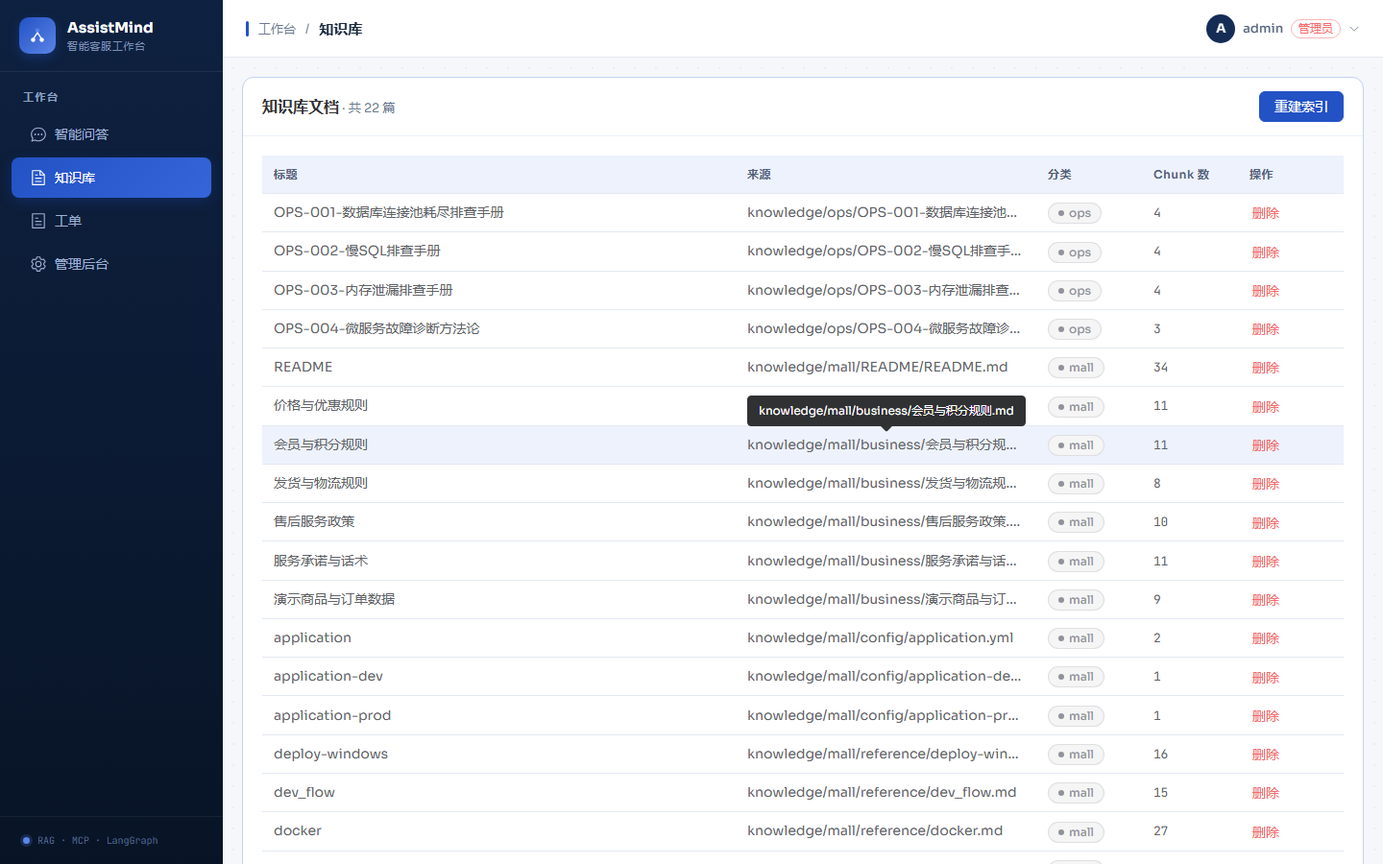
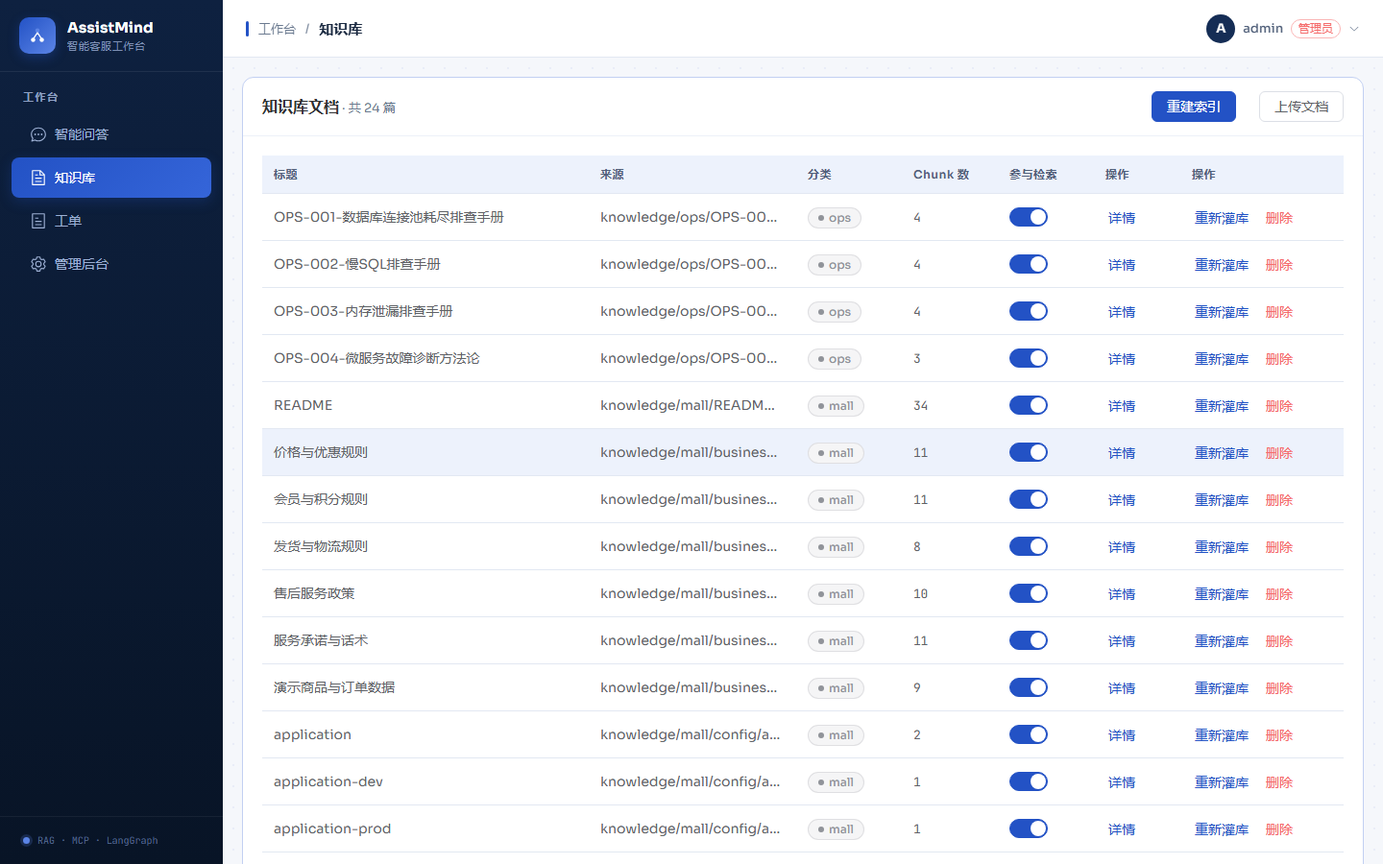
docs: 架构图与 README 截图说明同步当前架构
- archify 架构图重新导出：移除运维诊断节点，MCP 工具数更新为 8 个，规格锁定 revision 同步当前提交
- 交互版 HTML/spec.json 同步：删除运维节点与连线，源码溯源链接指向当前 revision
- README 截图说明更新：知识库管理（上传/启停/重灌）与召回测试两张新截图入库
- 删除未被引用且含已移除模块的旧版架构示意图 architecture-diagram.png

diff --git a/docs/assistmind-architecture.html b/docs/assistmind-architecture.html
@@ -4960,7 +4960,7 @@
     </div>
 
     <script id="archify-guided-views-data" type="application/json">[{"id":"request-path","label":"一次提问的完整链路","focus":["frontend","chat","router","rag","tool_agent"],"note":"从 SSE 入口经三级意图路由，分流到检索生成或 Agent 工具调用。"},{"id":"data-and-tools","label":"数据与工具链","focus":["rag","qdrant","tool_agent","mcp","pg"],"note":"知识检索落在 Qdrant，业务操作经 MCP 工具写入 PostgreSQL。"}]</script>
-    <script id="archify-source-evidence-data" type="application/json">{"schemaVersion":1,"verified":true,"repository":{"url":"https://github.com/JDKmark/AssistMind","revision":"c4d89c3d9ebf1ce1e05ab051781f11d426bd34c5","shortRevision":"c4d89c3"},"referenceCount":9,"nodes":{"frontend":[{"path":"frontend/src/App.vue","line":1,"href":"https://github.com/JDKmark/AssistMind/blob/c4d89c3d9ebf1ce1e05ab051781f11d426bd34c5/frontend/src/App.vue#L1"}],"chat":[{"path":"backend/app/api/chat.py","line":75,"href":"https://github.com/JDKmark/AssistMind/blob/c4d89c3d9ebf1ce1e05ab051781f11d426bd34c5/backend/app/api/chat.py#L75"}],"router":[{"path":"backend/app/core/router/intent.py","line":1,"href":"https://github.com/JDKmark/AssistMind/blob/c4d89c3d9ebf1ce1e05ab051781f11d426bd34c5/backend/app/core/router/intent.py#L1"}],"rag":[{"path":"backend/app/core/rag/engine.py","line":222,"href":"https://github.com/JDKmark/AssistMind/blob/c4d89c3d9ebf1ce1e05ab051781f11d426bd34c5/backend/app/core/rag/engine.py#L222"}],"tool_agent":[{"path":"backend/app/agents/tool_agent.py","line":115,"href":"https://github.com/JDKmark/AssistMind/blob/c4d89c3d9ebf1ce1e05ab051781f11d426bd34c5/backend/app/agents/tool_agent.py#L115"}],"mcp":[{"path":"backend/app/core/mcp/server.py","line":1,"href":"https://github.com/JDKmark/AssistMind/blob/c4d89c3d9ebf1ce1e05ab051781f11d426bd34c5/backend/app/core/mcp/server.py#L1"}],"dialog":[{"path":"backend/app/core/dialog/manager.py","line":1,"href":"https://github.com/JDKmark/AssistMind/blob/c4d89c3d9ebf1ce1e05ab051781f11d426bd34c5/backend/app/core/dialog/manager.py#L1"},{"path":"backend/app/core/dialog/state.py","line":1,"href":"https://github.com/JDKmark/AssistMind/blob/c4d89c3d9ebf1ce1e05ab051781f11d426bd34c5/backend/app/core/dialog/state.py#L1"}]}}</script>
+    <script id="archify-source-evidence-data" type="application/json">{"schemaVersion":1,"verified":true,"repository":{"url":"https://github.com/JDKmark/AssistMind","revision":"f4b07c25694800a990aefed20f83eeb240d70d92","shortRevision":"f4b07c2"},"referenceCount":9,"nodes":{"frontend":[{"path":"frontend/src/App.vue","line":1,"href":"https://github.com/JDKmark/AssistMind/blob/f4b07c25694800a990aefed20f83eeb240d70d92/frontend/src/App.vue#L1"}],"chat":[{"path":"backend/app/api/chat.py","line":75,"href":"https://github.com/JDKmark/AssistMind/blob/f4b07c25694800a990aefed20f83eeb240d70d92/backend/app/api/chat.py#L75"}],"router":[{"path":"backend/app/core/router/intent.py","line":1,"href":"https://github.com/JDKmark/AssistMind/blob/f4b07c25694800a990aefed20f83eeb240d70d92/backend/app/core/router/intent.py#L1"}],"rag":[{"path":"backend/app/core/rag/engine.py","line":222,"href":"https://github.com/JDKmark/AssistMind/blob/f4b07c25694800a990aefed20f83eeb240d70d92/backend/app/core/rag/engine.py#L222"}],"tool_agent":[{"path":"backend/app/agents/tool_agent.py","line":115,"href":"https://github.com/JDKmark/AssistMind/blob/f4b07c25694800a990aefed20f83eeb240d70d92/backend/app/agents/tool_agent.py#L115"}],"mcp":[{"path":"backend/app/core/mcp/server.py","line":1,"href":"https://github.com/JDKmark/AssistMind/blob/f4b07c25694800a990aefed20f83eeb240d70d92/backend/app/core/mcp/server.py#L1"}],"dialog":[{"path":"backend/app/core/dialog/manager.py","line":1,"href":"https://github.com/JDKmark/AssistMind/blob/f4b07c25694800a990aefed20f83eeb240d70d92/backend/app/core/dialog/manager.py#L1"},{"path":"backend/app/core/dialog/state.py","line":1,"href":"https://github.com/JDKmark/AssistMind/blob/f4b07c25694800a990aefed20f83eeb240d70d92/backend/app/core/dialog/state.py#L1"}]}}</script>
     <script id="archify-i18n-data" type="application/json">{"locale":"zh-CN","messages":{"viewer.kind.frontend":"前端","viewer.kind.backend":"后端","viewer.kind.database":"数据库","viewer.kind.cloud":"云服务","viewer.kind.security":"安全","viewer.kind.messagebus":"消息总线","viewer.kind.external":"外部系统","viewer.kind.neutral":"中性","viewer.kind.node":"节点","viewer.kind.start":"开始","viewer.kind.active":"活动","viewer.kind.waiting":"等待","viewer.kind.decision":"决策","viewer.kind.success":"成功","viewer.kind.failure":"失败","viewer.toolbar.actions":"图表操作","viewer.theme.toggle.title":"切换主题（T）","viewer.theme.toggle":"切换颜色主题","viewer.theme.dark":"深色","viewer.theme.light":"浅色","viewer.preset.choose.title":"选择视觉风格（S 循环切换）","viewer.preset.choose":"选择视觉风格","viewer.preset.style":"风格","viewer.preset.menu":"视觉风格","viewer.preset.identity":"视觉表达","viewer.preset.cycles":"S 循环切换","viewer.preset.classic":"经典","viewer.preset.classic.short":"经典","viewer.preset.classic.hint":"稳定的技术默认风格","viewer.preset.flow":"信号流","viewer.preset.flow.short":"流动","viewer.preset.flow.hint":"突出动态流向","viewer.preset.blueprint":"蓝图","viewer.preset.blueprint.hint":"工程评审","viewer.preset.editorial":"编辑风格","viewer.preset.editorial.hint":"适合发布与上线说明","viewer.preset.badge.signalFlow":"信号流","viewer.preset.badge.blueprint":"蓝图 / 修订 01","viewer.preset.badge.editorial":"编辑风格 / 现场笔记","viewer.preset.badge.editorialPlate":"ARCHIFY / 图版 04","viewer.preset.current":"当前视觉风格：{style}。选择视觉风格","viewer.motion.live":"动态","viewer.motion.still":"静态","viewer.motion.pause":"暂停动效","viewer.motion.resume":"恢复动效","viewer.motion.reduced":"已根据减少动态效果偏好暂停动效","viewer.motion.hidden":"页面不可见时已暂停动效","viewer.motion.yielding":"暂停动效；当前让位于{owner}","viewer.motion.yielding.title":"动态预览已启用 · 正在让位于{owner}","viewer.owner.story":"引导故事","viewer.owner.chapter":"当前章节","viewer.owner.chapterPreview":"章节差异预览","viewer.owner.handoff":"章节交接","viewer.owner.route":"路径探测","viewer.owner.lens":"语义透镜","viewer.owner.relationship":"关系预览","viewer.owner.intent":"意图追踪","viewer.owner.focus":"语义聚焦","viewer.owner.legend":"图例预览","viewer.owner.reader":"读者交互","viewer.present.enter":"进入演示模式","viewer.present.enter.title":"演示模式（F）","viewer.present.exit":"退出演示模式","viewer.present.exit.title":"退出演示模式（F 或 Escape）","viewer.present.present":"演示","viewer.present.exit.label":"退出","viewer.export.button":"导出","viewer.export.button.title":"导出图表（E）","viewer.export.diagram":"导出图表","viewer.export.menu":"导出","viewer.export.subtitle":"便携、整洁的输出","viewer.export.share":"分享","viewer.export.shareCard":"分享卡片","viewer.export.routeShareCard":"路径分享卡片","viewer.export.reachShareCard":"可达范围分享卡片","viewer.export.copyShareCard":"复制分享卡片","viewer.export.copyDiagram":"复制图表","viewer.export.clipboardPng":"复制 PNG 到剪贴板","viewer.export.raster":"位图","viewer.export.image":"图像","viewer.export.lossless":"无损图像","viewer.export.compact":"紧凑图像","viewer.export.modern":"现代图像格式","viewer.export.vectorMotion":"矢量与动效","viewer.export.vectorMotion.heading":"矢量与动效","viewer.export.editable":"可编辑矢量图","viewer.export.motion6s":"6 秒动效","viewer.export.unsupported":"当前浏览器不支持","viewer.export.clipboardUnsupported":"当前浏览器不支持写入图片剪贴板","viewer.export.clipboardUnsupported.period":"当前浏览器不支持写入图片剪贴板。","viewer.export.clipboardUnsupported.short":"此浏览器不支持写入图片剪贴板。","viewer.export.motionUnavailable":"当前浏览器无法录制动效","viewer.export.webmUnavailable":"当前浏览器不支持 WebM","viewer.export.failed":"导出失败：{message}","viewer.export.unknownVariant":"未知的分享卡片类型：{variant}","viewer.export.routeRequired":"请先追踪路径，再导出路径分享卡片","viewer.export.reachRequired":"请先追踪编写可达范围，再导出可达范围分享卡片","viewer.export.unknown":"未知错误","viewer.export.routeFailed":"路径分享卡片导出失败：{message}","viewer.export.reachFailed":"可达范围分享卡片导出失败：{message}","viewer.export.copyFailed":"复制失败：{message}","viewer.export.copiedPng":"已将 PNG 复制到剪贴板","viewer.export.copiedShare":"已复制分享卡片","viewer.export.downloadedShare":"已下载分享卡片","viewer.export.downloadedRoute":"已下载路径分享卡片","viewer.export.downloadedReach":"已下载可达范围分享卡片","viewer.export.downloadedWebm":"已下载 WebM","viewer.export.recording":"正在录制 6 秒动效…","viewer.export.card.routeSummary.one":"路径：{source} → {target} · {count} 个有向跳转","viewer.export.card.routeSummary.other":"路径：{source} → {target} · {count} 个有向跳转","viewer.export.card.reachSummary":"从{origin}开始的编写{direction} · {nodes} · {links} · 最深 {hops}","viewer.export.card.node.one":"{count} 个节点","viewer.export.card.node.other":"{count} 个节点","viewer.export.card.link.one":"{count} 条连接","viewer.export.card.link.other":"{count} 条连接","viewer.export.card.hop.one":"{count} 跳","viewer.export.card.hop.other":"{count} 跳","viewer.export.card.routeBadge":"ARCHIFY · 路径 · {hops}","viewer.export.card.reachBadge":"ARCHIFY · {direction}可达范围","viewer.export.card.defaultBadge":"ARCHIFY · {preset} · {theme}","viewer.export.direction.upstream":"上游","viewer.export.direction.downstream":"下游","viewer.export.error.canvasUnavailable":"无法为{label}使用画布","viewer.export.error.contextUnavailable":"无法为{label}创建二维画布上下文","viewer.export.error.toBlobUnavailable":"{label}无法使用 canvas.toBlob","viewer.export.error.toBlobNull":"{label}的 canvas.toBlob 未返回数据","viewer.export.error.variantsCombined":"无法同时组合多种分享卡片类型","viewer.export.error.viewerState":"分享卡片导出无法移除临时 Viewer 状态","viewer.export.error.routeState":"路径卡片导出无法安全保留已解析路径","viewer.export.error.reachState":"可达范围卡片导出无法安全保留编写的可达范围","viewer.export.error.webmRequirements":"WebM 动效导出需要追踪动画及浏览器 MediaRecorder 支持","viewer.export.error.mediaRecorder":"MediaRecorder 录制失败","viewer.export.error.emptyWebm":"MediaRecorder 生成了空的 WebM","viewer.export.error.webmBackground":"无法为 WebM 导出加载 SVG 背景","viewer.guided.region":"图表引导视图","viewer.guided.previous":"上一个引导视图","viewer.guided.previous.title":"上一个引导视图（[）","viewer.guided.next":"下一个引导视图","viewer.guided.next.title":"下一个引导视图（]）","viewer.guided.views":"引导视图","viewer.guided.explore":"探索此系统","viewer.guided.intro":"沿精选路径逐步查看，而不改变源图表。","viewer.guided.trail":"故事轨迹","viewer.guided.beat":"节点","viewer.guided.nextBeat":"下一步","viewer.guided.play":"播放引导故事","viewer.guided.play.title":"播放引导故事（P）","viewer.guided.pause":"暂停引导故事","viewer.guided.pause.title":"暂停引导故事（P）","viewer.guided.replay":"重播引导故事","viewer.guided.replay.title":"重播引导故事（P）","viewer.guided.playStory":"播放故事","viewer.guided.pauseStory":"暂停","viewer.guided.replayStory":"重播故事","viewer.guided.motionUnavailable":"静态模式下无法播放故事","viewer.guided.enableMotion":"切换为动态模式以播放引导故事","viewer.guided.selectBeatLink":"选择故事节点以复制其精确链接","viewer.guided.copyMoment":"复制此刻","viewer.guided.momentCopied":"已复制时刻链接","viewer.guided.momentCopyFailed":"无法复制故事时刻链接","viewer.guided.copied":"已复制","viewer.guided.copyFailed":"复制失败","viewer.guided.showAll":"显示全部","viewer.guided.showAll.aria":"显示完整图表","viewer.guided.chapters":"故事章节","viewer.guided.storyTrail":"{label}的故事轨迹：{count} 个节点","viewer.guided.chapter.open":"打开第 {index}/{total} 章：{label}，{count} 个停靠点","viewer.guided.chapter.current":"当前第 {index}/{total} 章：{label}，{count} 个停靠点","viewer.guided.chapter.selectedNodes":"已选择 {count} 个节点","viewer.guided.chapter.stops":"{count} 个停靠点","viewer.guided.chapter.stop.one":"{count} 个停靠点","viewer.guided.chapter.stop.other":"{count} 个停靠点","viewer.guided.chapter.current.title":"{label} — 当前章节，{count} 个停靠点","viewer.guided.chapter.delta.expanded":"{stay} 个保留，{enter} 个进入，{leave} 个离开","viewer.guided.chapter.delta.aria":"打开第 {index}/{total} 章：{label}。章节聚焦差异：{delta}","viewer.guided.chapter.delta.title":"{label} — 章节聚焦 {delta}","viewer.guided.handoff":"{from} → {to} · 经由{label}","viewer.guided.share.chapter":"章节 {index} / {total}","viewer.guided.share.initial":"章节 01 / 01","viewer.guided.share.default":"引导章节","viewer.guided.state.ready":"就绪","viewer.guided.state.playing":"播放中","viewer.guided.state.settled":"已完成","viewer.guided.state.paused":"已暂停","viewer.guided.state.pinned":"已固定","viewer.guided.state.still":"静态","viewer.guided.share.step":"步骤 {index} / {total} · {label}","viewer.guided.share.staticMoment":"{step} · 静态时刻","viewer.guided.share.complete":"{count} 个步骤已完成 · {note}","viewer.guided.share.settled":"路径已稳定，可供阅读。","viewer.guided.share.staticPath":"{count} 个步骤 · 静态路径","viewer.guided.share.ready":"{count} 个步骤 · 就绪","viewer.guided.share.aria":"{state}，第 {index}/{total} 章：{label}。{beat}。{route}","viewer.guided.beat.start":"节点 {index} / {total} · {label} · 起点","viewer.guided.beat.forward":"节点 {index} / {total} · {from} → {to}","viewer.guided.beat.reverse":"节点 {index} / {total} · {from} → {to} · 反向编写连接","viewer.guided.beat.multiple":"节点 {index} / {total} · {from} ⇄ {to} · {count} 条编写连接","viewer.guided.beat.group":"节点 {index} / {total} · {from} · {to} · 分组 · 无直接连接","viewer.guided.beat.aria.prefix":"故事节点 {index}/{total}：{label}。","viewer.guided.beat.aria.start":"起点。","viewer.guided.beat.aria.forward":"从{from}经一条正向编写关系到达。","viewer.guided.beat.aria.reverse":"从{from}出发；编写关系实际由{to}指向{from}。","viewer.guided.beat.aria.multiple":"从{from}经 {count} 条编写关系到达；不使用任意动效。","viewer.guided.beat.aria.group":"与{from}分组展示，没有直接编写关系。","viewer.guided.caption.start":"起点","viewer.guided.caption.grouped":"分组过渡 · 无直接编写连接","viewer.guided.caption.more":" +另外 {count} 条","viewer.guided.caption.reverse":"反向编写关系","viewer.guided.caption.relationships":"{count} 条编写关系","viewer.guided.caption.relationship":"编写关系","viewer.guided.caption.direction":"编写方向：{from} → {to}","viewer.guided.caption.starting":"编写起点","viewer.guided.beatLink":"复制当前故事时刻链接：第 {index}/{total} 个节点：{label}","viewer.guided.noStory":"此图表没有编写引导故事。","viewer.guide.eyebrow":"图表指南","viewer.guide.close":"关闭图表指南","viewer.guide.inspecting":"正在检查已编译语义","viewer.guide.actions":"图表探索操作","viewer.guide.find":"查找任意节点","viewer.guide.find.hint":"搜索标签、职责、类型和稳定 ID。","viewer.guide.route":"追踪路径","viewer.guide.route.aria":"追踪有向路径","viewer.guide.route.hint":"查看两个语义节点如何按编写方向连接。","viewer.guide.map":"查看完整系统","viewer.guide.map.hint":"打开带实时视口和稳定节点的语义雷达。","viewer.guide.lens":"比较语义类型","viewer.guide.lens.hint":"统计角色、显示流量并比较直接编写的连接。","viewer.guide.story":"播放引导故事","viewer.guide.story.hint":"浏览已编写的章节和真实关系。","viewer.guide.present":"进入演示模式","viewer.guide.present.hint":"让实时图表占满视口，同时不改变导出。","viewer.guide.shortcuts":"其他键盘快捷键","viewer.guide.shortcut.export":"导出","viewer.guide.shortcut.theme":"主题","viewer.guide.shortcut.style":"风格","viewer.guide.shortcut.reset":"重置","viewer.guide.shortcut.zoomIn":"放大","viewer.guide.shortcut.zoomOut":"缩小","viewer.guide.shortcut.close":"关闭","viewer.guide.facts":"{nodes} · {relationships} · {views}","viewer.guide.fact.node.one":"{count} 个语义节点","viewer.guide.fact.node.other":"{count} 个语义节点","viewer.guide.fact.relationship.one":"{count} 条关系","viewer.guide.fact.relationship.other":"{count} 条关系","viewer.guide.fact.view.one":"{count} 个引导视图","viewer.guide.fact.view.other":"{count} 个引导视图","viewer.guide.story.available.one":"浏览 {count} 个已编写章节及其真实关系。","viewer.guide.story.available.other":"浏览 {count} 个已编写章节及其真实关系。","viewer.guide.story.unavailable":"此图表没有编写引导故事。","viewer.guide.open":"打开图表指南","viewer.guide.noStory":"此图表没有编写引导故事。","viewer.finder.title":"查找节点","viewer.finder.close":"关闭节点查找器","viewer.finder.placeholder":"搜索标签或 ID","viewer.finder.search":"搜索图表节点","viewer.finder.results":"图表节点","viewer.finder.empty":"没有匹配的节点","viewer.finder.result.focus":"聚焦{label}","viewer.finder.result.routeStart":"选择{label}作为路径起点","viewer.finder.result.routeTarget":"选择{label}作为路径终点，{links}","viewer.finder.status.empty":"没有匹配的节点","viewer.finder.status.count.one":"{count} 个匹配节点","viewer.finder.status.count.other":"{count} 个匹配节点","viewer.finder.noun.nodes":"个节点","viewer.finder.link.one":"{count} 条连接","viewer.finder.link.other":"{count} 条连接","viewer.finder.result.focus.one":"聚焦{label}，{count} 条相关连接","viewer.finder.result.focus.other":"聚焦{label}，{count} 条相关连接","viewer.finder.status.filtered":"{visible}/{available} {noun}","viewer.finder.status.all":"{available} {noun}","viewer.passport.eyebrow":"语义护照","viewer.passport.metadata":"节点元数据","viewer.passport.evidence":"已验证的源代码证据","viewer.passport.verified":"已验证来源","viewer.passport.reach":"编写可达范围","viewer.passport.reach.trace":"追踪编写的可达性","viewer.passport.upstream":"上游","viewer.passport.downstream":"下游","viewer.passport.upstream.trace":"追踪上游编写可达性","viewer.passport.downstream.trace":"追踪下游编写可达性","viewer.passport.close":"关闭语义护照","viewer.passport.copy":"复制链接","viewer.passport.copy.focus":"复制聚焦节点的链接","viewer.passport.relations":"关系","viewer.passport.relations.show":"显示关联关系","viewer.passport.relations.hide":"隐藏关联关系","viewer.passport.relations.list":"关联关系","viewer.passport.copyRelation":"复制关系","viewer.passport.copyNode":"复制节点","viewer.passport.copyPinned":"复制固定关系的链接","viewer.passport.copySource":"复制来源节点的链接","viewer.passport.copy.focused.success":"已复制聚焦节点链接","viewer.passport.copy.pinned.success":"已复制固定关系链接","viewer.passport.copy.focused.failed":"无法复制聚焦节点链接","viewer.passport.copy.pinned.failed":"无法复制固定关系链接","viewer.passport.relationship.none":"没有关联关系","viewer.passport.relationship.count.one":"{count} 条关系","viewer.passport.relationship.count.other":"{count} 条关系","viewer.passport.relationship.show.one":"显示 {count} 条关联关系","viewer.passport.relationship.show.other":"显示 {count} 条关联关系","viewer.passport.relationship.summary":"{out} 条出向 · {in} 条入向{loops}","viewer.passport.relationship.loops":" · {count} 条自环","viewer.passport.relationship.explorer":"直接关系浏览器","viewer.passport.relationship.help":"使用方向键浏览关系。按 Enter 或空格键固定详情；按 Escape 清除。","viewer.passport.relationship.loopsBack":"回环","viewer.passport.relationship.connectsTo":"连接到","viewer.passport.relationship.connectsFrom":"连接自","viewer.passport.relationship.pinned":"已固定关系 · {from} → {to} · {label}","viewer.passport.relationship.inspect":"检查第 {index}/{total} 条关系：{from} 到 {to}，{label}。按 Enter 查看详情。","viewer.passport.relationship.group.out":"出向","viewer.passport.relationship.group.in":"入向","viewer.passport.relationship.group.loop":"自环","viewer.passport.relationship.row":"{group}：{relationship}，{neighbor}","viewer.passport.relationship.direction.out":"出 →","viewer.passport.relationship.direction.in":"← 入","viewer.passport.relationship.direction.loop":"自环","viewer.passport.sourceCount.one":"{count} 个已验证来源引用","viewer.passport.sourceCount.other":"{count} 个已验证来源引用","viewer.passport.sourceMarker":"来源","viewer.passport.beacon.one":"{count} 个已验证来源；聚焦此节点以检查","viewer.passport.beacon.other":"{count} 个已验证来源；聚焦此节点以检查","viewer.passport.repository.open":"打开已验证的仓库修订版本 {revision}","viewer.passport.source.open":"打开修订版本 {revision} 中已验证的来源 {path}","viewer.passport.source.openLink":"打开 ↗","viewer.passport.reach.upstream.one":"追踪 {count} 个上游编写节点","viewer.passport.reach.upstream.other":"追踪 {count} 个上游编写节点","viewer.passport.reach.downstream.one":"追踪 {count} 个下游编写节点","viewer.passport.reach.downstream.other":"追踪 {count} 个下游编写节点","viewer.passport.reach.noUpstream":"没有上游编写节点","viewer.passport.reach.noDownstream":"没有下游编写节点","viewer.passport.reach.status":"{direction} · {nodes} 个节点 · {links} 条连接 · 最深 {hops} 跳","viewer.route.eyebrow":"路径探测","viewer.route.start":"选择起点节点","viewer.route.start.find":"查找起点","viewer.route.start.find.aria":"查找路径起点","viewer.route.copy":"复制链接","viewer.route.copy.aria":"复制已追踪路径的链接","viewer.route.clear":"清除","viewer.route.clear.aria":"清除路径探测","viewer.route.traced":"已追踪路径","viewer.route.pickTwo":"在图表中选择两个语义节点","viewer.route.pickOne":"在图表中选择一个语义节点","viewer.route.controls":"路径旅程控制","viewer.route.previous":"上一个路径位置","viewer.route.play":"播放路径旅程","viewer.route.pause":"暂停路径旅程","viewer.route.replay":"重播路径旅程","viewer.route.next":"下一个路径位置","viewer.route.journey":"旅程","viewer.route.pause.label":"暂停","viewer.route.replay.label":"重播","viewer.route.overview":"总览","viewer.route.overview.aria":"显示完整路径总览","viewer.route.instructions":"先选择来源，再选择目标；方向很重要。","viewer.route.destination":"选择从{label}出发的目标","viewer.route.destination.find":"查找目标","viewer.route.destination.find.aria":"查找可达的路径目标","viewer.route.differentDestination":"选择其他目标","viewer.route.distinct":"一条路径需要两个不同的语义节点。","viewer.route.unreachable":"没有通往{label}的有向路径","viewer.route.unreachable.detail":"从{source}无法到达{target}。请选择高亮的目标。","viewer.route.start.instructions":"选择来源。下一步只会显示有向可达的目标。","viewer.route.copy.success":"已复制路径链接","viewer.route.copy.failed":"无法复制路径链接","viewer.route.position":"路径位置 {index}/{total}：{label}","viewer.route.step":"第 {index}/{total} 步 · {phase} · {label}","viewer.route.motionRequired":"自动旅程需要动态模式","viewer.route.trigger.clear":"清除已追踪路径","viewer.route.overview.status":"{nodes} · {hops} · 最短编写路径","viewer.route.overview.node.one":"{count} 个节点","viewer.route.overview.node.other":"{count} 个节点","viewer.route.overview.hop.one":"{count} 个有向跳转","viewer.route.overview.hop.other":"{count} 个有向跳转","viewer.route.phase.playing":"播放中","viewer.route.phase.complete":"已完成","viewer.route.phase.inspecting":"检查中","viewer.route.destination.count.one":"有 {count} 个有向目标可用。请选择高亮节点。","viewer.route.destination.count.other":"有 {count} 个有向目标可用。请选择高亮节点。","viewer.route.noOutgoing":"此处没有可用的出向路径。请清除后选择其他来源。","viewer.route.result.title":"{source} 到 {target}","viewer.route.finder.source.title":"选择路径起点","viewer.route.finder.source.placeholder":"搜索路径来源","viewer.route.finder.source.empty":"没有匹配的路径来源","viewer.route.finder.source.results":"可作为路径起点的节点","viewer.route.finder.source.noun":"个路径来源","viewer.route.finder.source.badge":"起点","viewer.route.finder.target.title":"从{label}出发的目标","viewer.route.finder.target.placeholder":"搜索可达目标","viewer.route.finder.target.empty":"没有匹配的可达目标","viewer.route.finder.target.results":"可达路径目标","viewer.route.finder.target.noun":"个可达目标","viewer.route.hop.one":"{count} 跳","viewer.route.hop.other":"{count} 跳","viewer.lens.eyebrow":"语义透镜","viewer.lens.title":"比较系统角色","viewer.lens.close":"关闭语义透镜","viewer.lens.instruction":"最多选择两种语义类型。选择一种可显示其真实流量；选择两种只比较直接编写的关系。","viewer.lens.kinds":"语义类型","viewer.lens.choose":"选择一种类型以检查其节点和相连关系。","viewer.lens.copy":"复制语义透镜链接","viewer.lens.clear":"清除语义透镜","viewer.lens.open":"打开语义透镜","viewer.lens.openActive":"打开当前语义透镜","viewer.lens.legend":"语义图例","viewer.lens.legend.inspect.one":"检查{label}，{count} 个节点","viewer.lens.legend.inspect.other":"检查{label}，{count} 个节点","viewer.lens.kind.count.one":"{label}，{count} 个节点","viewer.lens.kind.count.other":"{label}，{count} 个节点","viewer.lens.compare.one":"{first} → {second}：{forward} · {second} → {first}：{reverse} · 共 {count} 条直接关系","viewer.lens.compare.other":"{first} → {second}：{forward} · {second} → {first}：{reverse} · 共 {count} 条直接关系","viewer.lens.single":"{nodes} · {relationships} · 已连接节点保持可见","viewer.lens.node.one":"{count} 个{label}节点","viewer.lens.node.other":"{count} 个{label}节点","viewer.lens.relationship.one":"{count} 条相连关系","viewer.lens.relationship.other":"{count} 条相连关系","viewer.radar.title":"语义雷达","viewer.radar.building":"正在构建总览","viewer.radar.openFull":"打开完整语义雷达","viewer.radar.open":"打开雷达","viewer.radar.close":"关闭语义雷达","viewer.radar.surface":"图表总览。点击节点进行聚焦，或使用方向键平移。","viewer.radar.click":"点击节点","viewer.radar.drag":"拖动平移","viewer.radar.space":"语义雷达需要更多地图可见空间。","viewer.radar.nodes":"语义图表雷达节点","viewer.radar.focus":"从语义雷达聚焦{label}","viewer.radar.status":"{count} 个节点 · {viewport}","viewer.radar.fullMap":"{count} 个节点 · 完整地图","viewer.radar.compacted":"已收紧雷达，避免遮挡语义护照或地图控件。","viewer.radar.cancelWaiting":"取消等待更多地图空间的语义雷达","viewer.radar.needsSpace":"语义雷达需要更多可见地图空间","viewer.radar.viewport.full":"完整地图","viewer.radar.viewport.width":"宽度 {percent}%","viewer.radar.viewport.scale":"视口 {percent}%","viewer.nav.controls":"图表视图控制","viewer.nav.route":"追踪有向路径","viewer.nav.route.title":"追踪路径（R）","viewer.nav.route.short":"路径","viewer.nav.radar":"打开语义雷达","viewer.nav.radar.title":"语义雷达（M）","viewer.nav.radar.short":"地图","viewer.nav.lens":"打开语义透镜","viewer.nav.lens.title":"语义透镜（L）","viewer.nav.lens.short":"透镜","viewer.nav.find":"查找节点","viewer.nav.find.title":"查找节点（/）","viewer.nav.guide":"打开图表指南","viewer.nav.guide.title":"图表指南（?）","viewer.nav.zoomOut":"缩小","viewer.nav.zoomOut.title":"缩小（-）","viewer.nav.reset":"重置图表视图","viewer.nav.reset.title":"重置视图（0）","viewer.nav.read":"阅读","viewer.nav.zoomIn":"放大","viewer.nav.zoomIn.title":"放大（+）","viewer.nav.camera":"{hint}。重置图表视图","viewer.nav.camera.title":"{semantic}{hint} · 重置视图（0）","viewer.nav.camera.semantic":"语义相机已启用 · ","viewer.nav.level.map":"概览","viewer.nav.level.read":"阅读","viewer.nav.level.full":"完整","viewer.nav.level.auto":"自动","viewer.nav.detail.map":"放大以显示关系标签和节点上下文","viewer.nav.detail.read":"再次放大以显示标签和注释","viewer.nav.detail.full":"完整图表详情","viewer.intent.summary":"{label}。{out} 条出向，{in} 条入向{loops}。共 {total} 条连接。按 Enter 查看详情。","viewer.intent.loops":"，{count} 条自环","viewer.common.copied":"已复制","viewer.common.copyFailed":"复制失败","viewer.common.copyLink":"复制链接","viewer.common.clear":"清除","viewer.common.close":"关闭"}}</script>
     <div class="guided-views no-print" id="guided-views" hidden aria-label="图表引导视图">
       <button id="guided-view-prev" type="button" aria-label="上一个引导视图" title="上一个引导视图（[）">&#8592;</button>
@@ -5108,15 +5108,15 @@
         <text data-detail="context" x="875" y="377" class="t-muted" font-size="9" text-anchor="middle">ReAct 循环 + 实体补填</text>
         </g>
 
-        <g id="node-mcp" data-node-id="mcp" data-node-label="MCP 工具服务" tabindex="0" role="button" aria-label="聚焦MCP 工具服务，统一业务工具集 · 13 个, AssistMind 后端（FastAPI + LangGraph）" aria-pressed="false" data-node-kind="backend" data-node-sublabel="统一业务工具集 · 13 个" data-node-context="AssistMind 后端（FastAPI + LangGraph）">
-          <title>MCP 工具服务 · 统一业务工具集 · 13 个 · AssistMind 后端（FastAPI + LangGraph）</title>
+        <g id="node-mcp" data-node-id="mcp" data-node-label="MCP 工具服务" tabindex="0" role="button" aria-label="聚焦MCP 工具服务，统一业务工具集 · 8 个, AssistMind 后端（FastAPI + LangGraph）" aria-pressed="false" data-node-kind="backend" data-node-sublabel="统一业务工具集 · 8 个" data-node-context="AssistMind 后端（FastAPI + LangGraph）">
+          <title>MCP 工具服务 · 统一业务工具集 · 8 个 · AssistMind 后端（FastAPI + LangGraph）</title>
           <rect x="790" y="480" width="170" height="66" rx="6" class="c-mask"/>
           <rect x="790" y="480" width="170" height="66" rx="6" class="c-backend" stroke-width="1.5"/>
           <g aria-hidden="true" data-semantic-sigil="backend" class="semantic-sigil s-backend" transform="translate(796 486) scale(0.6875)">
             <path d="M6 3 3 8l3 5M10 3l3 5-3 5"/>
           </g>
           <text data-node-label="" data-detail-anchor="" x="875" y="511" class="t-primary" font-size="11" font-weight="600" text-anchor="middle">MCP 工具服务</text>
-        <text data-detail="context" x="875" y="527" class="t-muted" font-size="9" text-anchor="middle">统一业务工具集 · 13 个</text>
+        <text data-detail="context" x="875" y="527" class="t-muted" font-size="9" text-anchor="middle">统一业务工具集 · 8 个</text>
         </g>
 
         <g id="node-dialog" data-node-id="dialog" data-node-label="对话上下文管理" tabindex="0" role="button" aria-label="聚焦对话上下文管理，裁剪 · 提取 · 槽位状态机, AssistMind 后端（FastAPI + LangGraph）" aria-pressed="false" data-node-kind="backend" data-node-sublabel="裁剪 · 提取 · 槽位状态机" data-node-context="AssistMind 后端（FastAPI + LangGraph）">
@@ -5476,7 +5476,7 @@
         </div>
         <ul>
           <li>&bull; 每个组件标注对应源码路径与行号，点击可溯源</li>
-          <li>&bull; 规格锁定 revision c4d89c3，与仓库提交一致</li>
+          <li>&bull; 规格锁定 revision f4b07c2，与仓库提交一致</li>
           <li>&bull; 架构细节见 docs/backend-structure.md</li>
         </ul>
       </div>

diff --git a/README.md b/README.md
@@ -11,14 +11,14 @@
 
 ## 界面预览
 
-> 以下截图来自本地演示环境（真实对话链路：语义缓存命中、Agent 经 MCP 调用业务工具）。
+> 以下截图来自本地演示环境（真实对话链路：RAG 检索生成、Agent 经 MCP 调用业务工具）。
 
 | | |
 |---|---|
 | ![登录页](docs/screenshots/01-login.png) | ![RAG 问答（L1 语义缓存命中）](docs/screenshots/02-chat-faq.png) |
-| ![Agent 工具调用：订单售后办理](docs/screenshots/03-chat-agent.png) | ![知识库文档管理](docs/screenshots/04-knowledge.png) |
+| ![Agent 工具调用：订单售后办理](docs/screenshots/03-chat-agent.png) | ![知识库管理（上传 / 启停 / 重灌）](docs/screenshots/04-knowledge.png) |
 | ![工单列表](docs/screenshots/05-tickets.png) | ![我的订单（演示账号 user1）](docs/screenshots/06-orders.png) |
-| ![管理后台](docs/screenshots/07-admin.png) | |
+| ![管理后台](docs/screenshots/07-admin.png) | ![召回测试（RRF 融合命中）](docs/screenshots/08-recall-test.png) |
 
 
 
